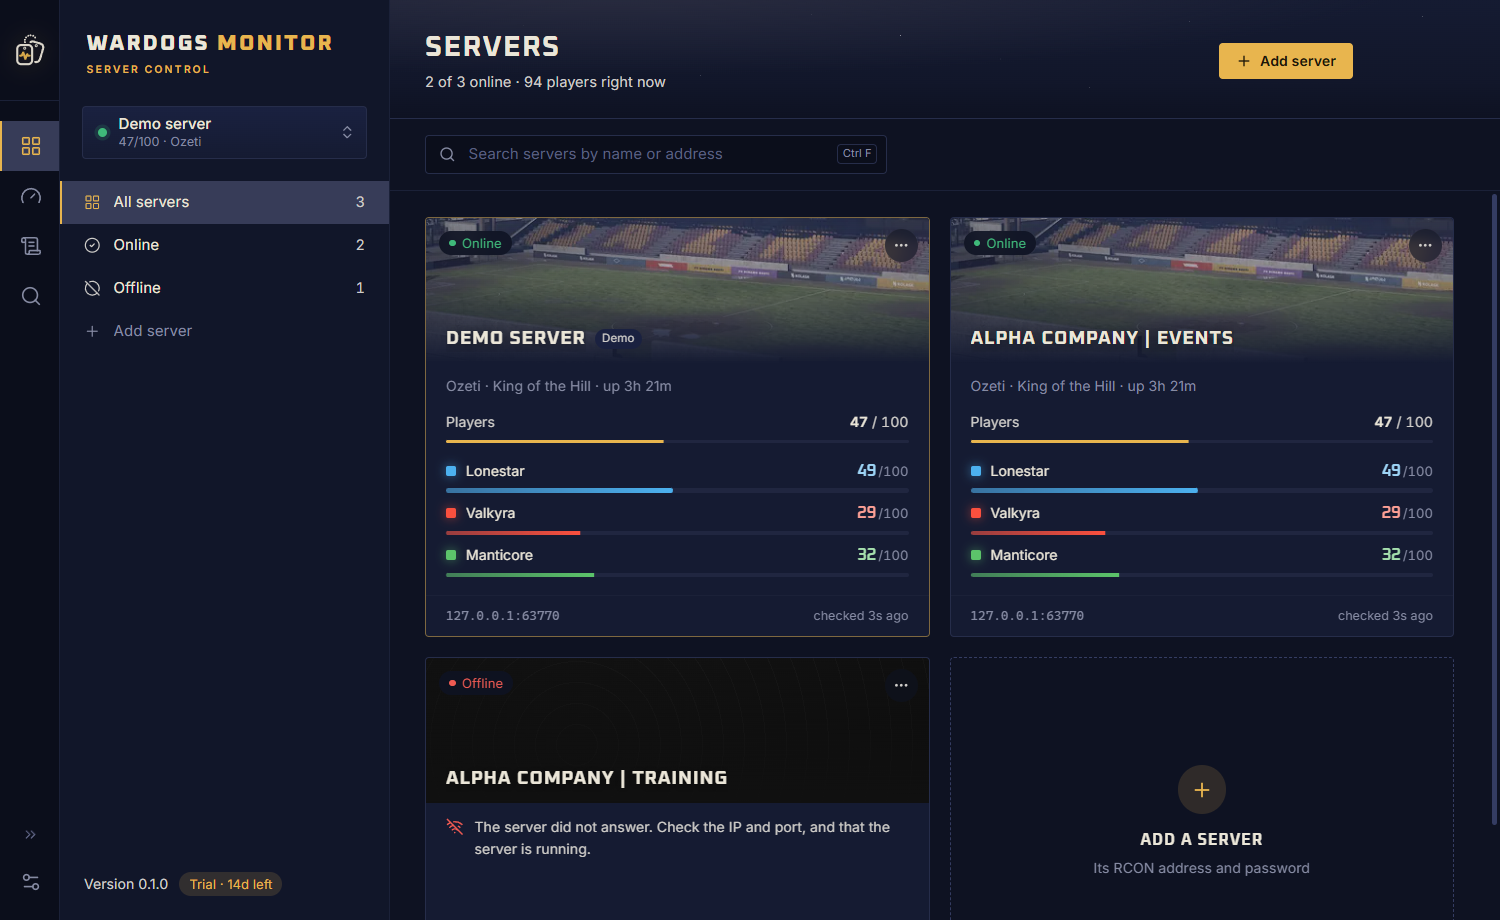
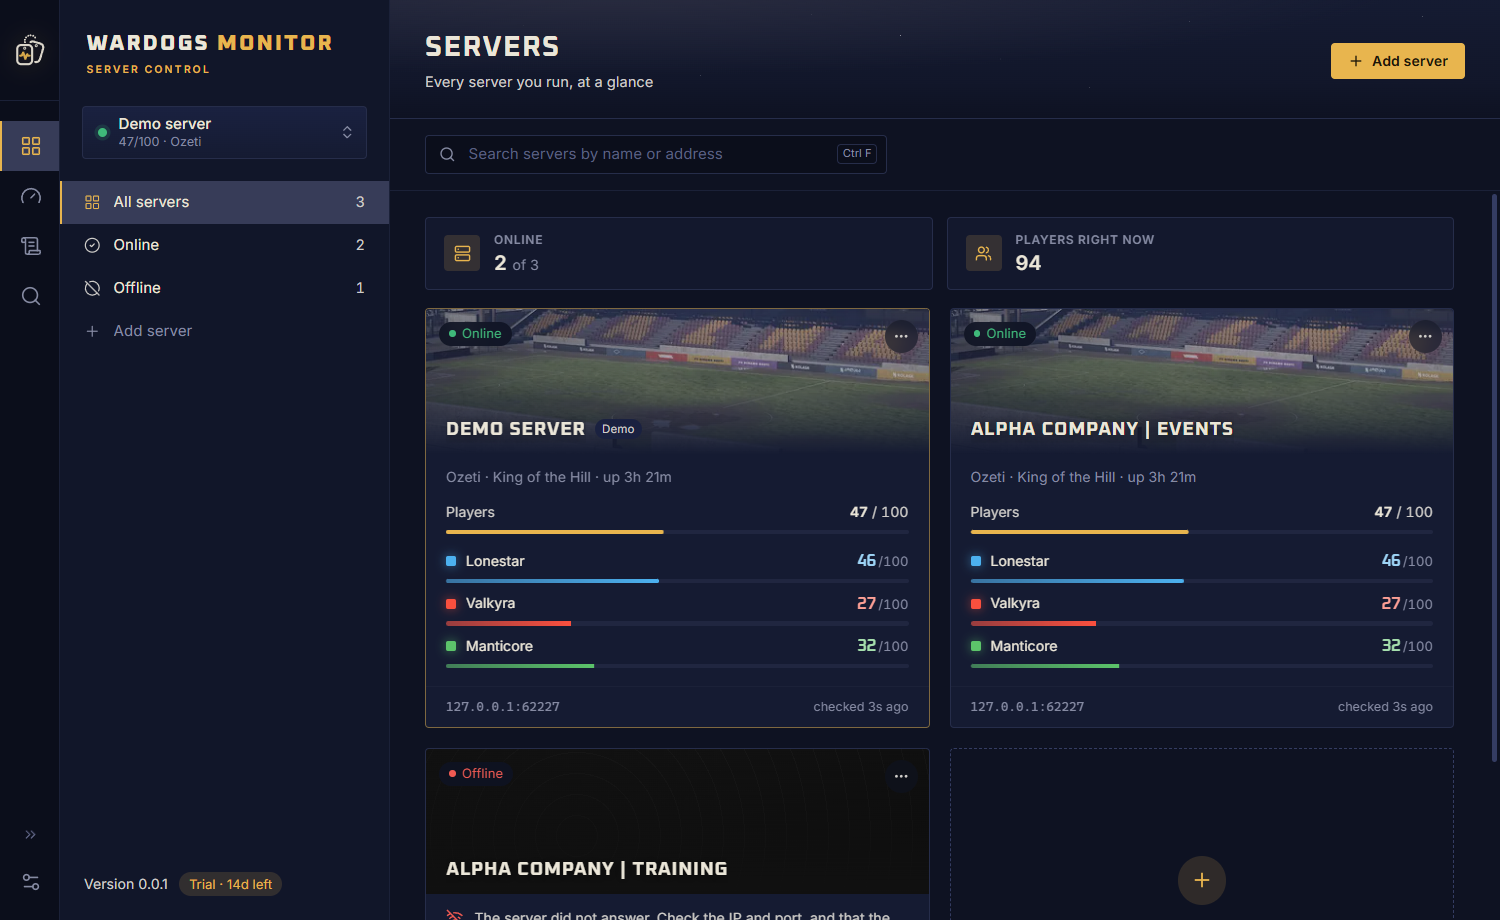
chore(release): prepare v0.0.1 build config, tag check, and UI polish
- Set package version to 0.0.1 and add tag-to-version check in CI workflow
- Clean up Windows installer and portable executable artifact filenames
- Right-align view header actions and refresh screenshots

diff --git a/src/components/ViewHeader.vue b/src/components/ViewHeader.vue
@@ -43,9 +43,14 @@ const tab = defineModel<string>('tab');
 
 <style scoped>
 /* Without tabs under it (.plain), the header keeps the same room below the heading as above it. */
+/*
+ * The actions run to the right edge, under the window's own buttons (34px
+ * high, more in page pixels when zoomed out): the top padding keeps the
+ * centred actions below them.
+ */
 .view-header {
     flex: none;
-    padding: 30px 35px 0;
+    padding: max(30px, calc(var(--caption-h) - 4px)) 35px 0;
     border-bottom: 1px solid var(--line);
 }
 
@@ -60,8 +65,6 @@ const tab = defineModel<string>('tab');
     justify-content: space-between;
     gap: 26.5px;
     min-height: 62px;
-    /* The actions stay clear of the window's own buttons (see .content in Shell.vue; the header already pads 35px). */
-    padding-right: max(0px, calc(var(--caption-clear, var(--caption-w)) - 35px));
 }
 
 .title {

diff --git a/src/lib/store.ts b/src/lib/store.ts
@@ -86,7 +86,7 @@ export const state = reactive({
         widgets: [],
     } as Preferences,
     limits: null as Limits | null,
-    version: '0.1.0',
+    version: '0.0.1',
     selectedPlayer: null as string | null,
     selectedBan: null as string | null,
     search: '',

diff --git a/README.md b/README.md
@@ -123,14 +123,16 @@ Screenshot mode (`npm run screenshots [folder]`) never touches your own data: it
 
 GitHub Actions ([`.github/workflows/build.yml`](.github/workflows/build.yml)) runs on every push to `main` and every pull request. It installs, typechecks, runs the tests and builds the installer and portable exe on `windows-latest`. The builds are kept as the run's artifacts.
 
-To publish a release:
+To publish a release, tag the version that is in `package.json` and push the tag. For the first release (0.0.1, already set):
 
 ```bash
-npm version patch     # or minor / major: bumps package.json and makes a git tag
-git push --follow-tags
+git tag v0.0.1
+git push origin v0.0.1
 ```
 
-A pushed `v*` tag makes the workflow attach both exes to a GitHub release with generated release notes.
+For the next ones, `npm version patch` (or `minor` / `major`) bumps `package.json` and makes the matching tag; then `git push --follow-tags`.
+
+A pushed `v*` tag makes the workflow build both exes and attach them to a GitHub release with generated release notes. The workflow stops if the tag does not match the version in `package.json`.
 
 Code signing: the workflow builds unsigned (`CSC_IDENTITY_AUTO_DISCOVERY=false`). To sign, add the certificate as `CSC_LINK` (base64 .pfx) and `CSC_KEY_PASSWORD` repository secrets, pass them to the build step, and remove that variable.
 
